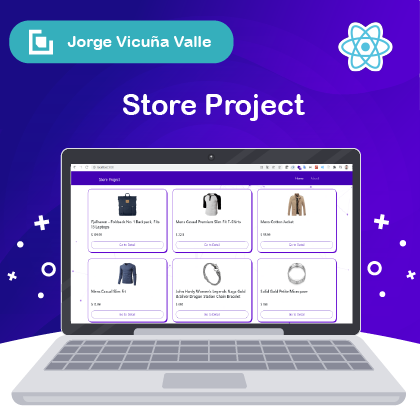
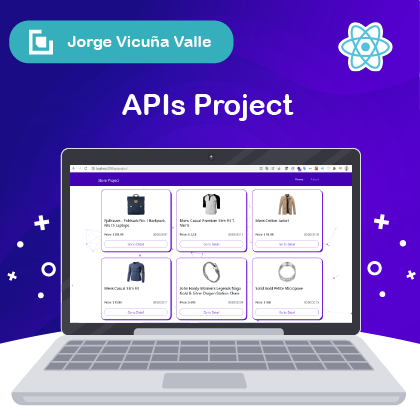
Final React APIsProject -README

Changed region(s): [[0.1548, 0.3714, 0.8667, 0.7738], [0.2786, 0.2167, 0.7429, 0.3095], [0.7738, 0.65, 0.8048, 0.681]]

diff --git a/src/components/ProductCard1/Product.js b/src/components/ProductCard1/Product.js
@@ -6,8 +6,35 @@ import Countdown from 'react-countdown';
 import './Product.scss';
 
 export const Product = (props) => {
-  const { product } = props;
+  const { product, timemin, timemax } = props;
 
+  //Para obtener un numero aleatorio
+  const getRandom = (min, max) => {
+    return Math.random() * (max - min) + min;
+  };
+  const time = Math.round(getRandom(timemax, timemin));
+
+  // Para saber cuando culmina el conteo
+  const renderer = ({ hours, minutes, seconds, completed }) => {
+    if (completed) {
+      // Render a completed state
+      return (
+        <Link to={`/product/${product.id}`} className="disabled-link">
+          <Button style={{ backgroundColor: 'Gray', color: 'white' }}>
+            Bloqueado
+          </Button>
+        </Link>
+      );
+    } else {
+      // Render a countdown
+      return (
+        <Link to={`/product/${product.id}`}>
+          <Button>Go to Detail</Button>
+        </Link>
+      );
+    }
+  };
+  console.log(renderer);
   return (
     <Col xs={12} sm={6} md={4} className="product">
       <Fade>
@@ -17,11 +44,12 @@ export const Product = (props) => {
             <Card.Title>{product.title}</Card.Title>
             <div className="product__info">
               <Card.Subtitle>Price: $ {product.price}</Card.Subtitle>
-              <Countdown date={Date.now() + 50000} />
+              <Countdown date={Date.now() + parseInt(time + '000')} />
             </div>
-            <Link to={`/product/${product.id}`} /* className="disabled-link" */>
-              <Button>Go to Detail</Button>
-            </Link>
+            <Countdown
+              date={Date.now() + parseInt(time + '000')}
+              renderer={renderer}
+            />
           </Card.Body>
         </Card>
       </Fade>

diff --git a/src/routers/AppRouter.js b/src/routers/AppRouter.js
@@ -1,5 +1,5 @@
 import React from 'react';
-import { HashRouter, Routes, Route } from 'react-router-dom';
+import { BrowserRouter, Routes, Route } from 'react-router-dom';
 import NavBar from '../components/Navbar/Navbar';
 import AboutPage from '../pages/About/AboutPage';
 import ErorrPage from '../pages/Error/ErrorPage';
@@ -8,7 +8,7 @@ import ProductDetail from '../pages/ProductDetail/ProductDetail';
 
 export const AppRouter = () => {
   return (
-    <HashRouter basename="/apisproject/">
+    <BrowserRouter basename="/apisproject/">
       <NavBar />
       <Routes>
         <Route path="/" exact={true} element={<HomePage />} />
@@ -16,6 +16,6 @@ export const AppRouter = () => {
         <Route path="/about" exact={true} element={<AboutPage />} />
         <Route path="*" exact={true} element={<ErorrPage />} />
       </Routes>
-    </HashRouter>
+    </BrowserRouter>
   );
 };

diff --git a/src/pages/Home/HomePage.js b/src/pages/Home/HomePage.js
@@ -18,7 +18,12 @@ const HomePage = () => {
             <GridLoader color={'#5f00d1'} size={25} />
           ) : (
             result.map((product) => (
-              <Product product={product} key={product.id} />
+              <Product
+                product={product}
+                timemin={10}
+                timemax={30}
+                key={product.id}
+              />
             ))
           )}
         </div>

diff --git a/src/pages/About/AboutPage.js b/src/pages/About/AboutPage.js
@@ -22,7 +22,7 @@ const AboutPage = () => {
               <Card>
                 <Card.Img variant="top" src={imagen} />
                 <Card.Body>
-                  <Card.Title>Store Project</Card.Title>
+                  <Card.Title>APIs Project</Card.Title>
                   <Card.Subtitle>Bootcamp Make It Real</Card.Subtitle>
 
                   <Card.Text>

diff --git a/src/components/Navbar/Navbar.js b/src/components/Navbar/Navbar.js
@@ -8,7 +8,7 @@ const Navbar = () => {
       <nav className="navbar navbar-expand-sm navbar-dark fixed-top">
         <Link className="navbar-brand" to="/">
           {/* <img src={logo} className="navbar-logo" alt =""/> */}
-          Store Project
+          APIs Project
         </Link>
         <button
           className="navbar-toggler"

diff --git a/src/pages/ProductDetail/ProductDetail.scss b/src/pages/ProductDetail/ProductDetail.scss
@@ -72,10 +72,10 @@
         &:hover,
         &:active,
         &:focus {
-          background-color: #4201b3 !important;
+          background-color: #4201b3;
           border-color: #4201b3;
           color: #fff;
-          box-shadow: none !important;
+          box-shadow: none;
         }
       }
     }

diff --git a/README.md b/README.md
@@ -1,70 +1,49 @@
-# Getting Started with Create React App
+# Programa Top v13 - Tiempo Parcial - Assesment I
 
-This project was bootstrapped with [Create React App](https://github.com/facebook/create-react-app).
+El objetivo de esta misión es poner en práctica lo que has aprendido en el programa. Los temas que se cubrirán son: Scrum, Git, HTML y CSS, JavaScript y React.
+La misión consta de dos partes:
 
-## Available Scripts
+1. Construir un proyecto en React
+2. Cuestionario
 
-In the project directory, you can run:
+##
 
-### `npm start`
+# Proyecto React: Apis Project
 
-Runs the app in the development mode.\
-Open [http://localhost:3000](http://localhost:3000) to view it in your browser.
+🚀 Link para ver el proyecto: (https://jorge150896.github.io/apisproject/)
 
-The page will reload when you make changes.\
-You may also see any lint errors in the console.
+## Vista:
 
-### `npm test`
+[![APIsProject](https://i.imgur.com/REHSlgc.png)](https://jorge150896.github.io/apisproject/)
 
-Launches the test runner in the interactive watch mode.\
-See the section about [running tests](https://facebook.github.io/create-react-app/docs/running-tests) for more information.
+# Cuestionario
 
-### `npm run build`
+1. ¿Cuáles son las ceremonias más importantes de un Sprint y cuál es la idea de cada una?
 
-Builds the app for production to the `build` folder.\
-It correctly bundles React in production mode and optimizes the build for the best performance.
+2. ¿Qué son los Wireframes? Nombra al menos una herramienta que podamos utilizar.
 
-The build is minified and the filenames include the hashes.\
-Your app is ready to be deployed!
+3. Explicar la diferencia entre var, let y const. Y dar un ejemplo en qué caso se utilizará.
+4. ¿Cuáles son los tres comandos que se pueden utilizar para crear una nueva rama llamada rama-1?
+5. Explicar la diferencia entre git merge y git rebase.
+6. ¿Cuál es la diferencia entre Pull Request (PR) y el comando git pull?
+7. ¿Qué es el Virtual DOM?
+8. Dado el siguiente codePen, el cual solo tiene un HTML, por medio de css llegar a esta respuesta. Imagen. (Para mostrar los servicios debes usar CSS Flexbox o CSS Grid).
 
-See the section about [deployment](https://facebook.github.io/create-react-app/docs/deployment) for more information.
+## 👍 Sígueme en mis redes sociales:
 
-### `npm run eject`
+<table>
+  <tr>
+      <td>
+      <a href="https://jorge-vicuna.gitlab.io/jorge-vicuna/">
+        <img src="https://jorge-vicuna.gitlab.io/jorge-vicuna/static/media/avatar.272f0e79.jpg" width="100px;" alt=""/>
+        <br />
+        <sub><b>Jorge Vicuña Valle</b></sub>
+      </a>
+    </td>
+</Table>
 
-**Note: this is a one-way operation. Once you `eject`, you can't go back!**
-
-If you aren't satisfied with the build tool and configuration choices, you can `eject` at any time. This command will remove the single build dependency from your project.
-
-Instead, it will copy all the configuration files and the transitive dependencies (webpack, Babel, ESLint, etc) right into your project so you have full control over them. All of the commands except `eject` will still work, but they will point to the copied scripts so you can tweak them. At this point you're on your own.
-
-You don't have to ever use `eject`. The curated feature set is suitable for small and middle deployments, and you shouldn't feel obligated to use this feature. However we understand that this tool wouldn't be useful if you couldn't customize it when you are ready for it.
-
-## Learn More
-
-You can learn more in the [Create React App documentation](https://facebook.github.io/create-react-app/docs/getting-started).
-
-To learn React, check out the [React documentation](https://reactjs.org/).
-
-### Code Splitting
-
-This section has moved here: [https://facebook.github.io/create-react-app/docs/code-splitting](https://facebook.github.io/create-react-app/docs/code-splitting)
-
-### Analyzing the Bundle Size
-
-This section has moved here: [https://facebook.github.io/create-react-app/docs/analyzing-the-bundle-size](https://facebook.github.io/create-react-app/docs/analyzing-the-bundle-size)
-
-### Making a Progressive Web App
-
-This section has moved here: [https://facebook.github.io/create-react-app/docs/making-a-progressive-web-app](https://facebook.github.io/create-react-app/docs/making-a-progressive-web-app)
-
-### Advanced Configuration
-
-This section has moved here: [https://facebook.github.io/create-react-app/docs/advanced-configuration](https://facebook.github.io/create-react-app/docs/advanced-configuration)
-
-### Deployment
-
-This section has moved here: [https://facebook.github.io/create-react-app/docs/deployment](https://facebook.github.io/create-react-app/docs/deployment)
-
-### `npm run build` fails to minify
-
-This section has moved here: [https://facebook.github.io/create-react-app/docs/troubleshooting#npm-run-build-fails-to-minify](https://facebook.github.io/create-react-app/docs/troubleshooting#npm-run-build-fails-to-minify)
+- WebPersonal: (https://jorge-vicuna.gitlab.io/jorge-vicuna/)
+- GitLab: (https://gitlab.com/jorge_vicuna)
+- Youtube: (https://www.youtube.com/channel/UCW0m1TKKiN3Etejqx6h3Jtg)
+- Linkedin: (https://www.linkedin.com/in/jorge-vicuna-valle/)
+- Facebook: (https://www.facebook.com/jorge.vicunavalle/)
